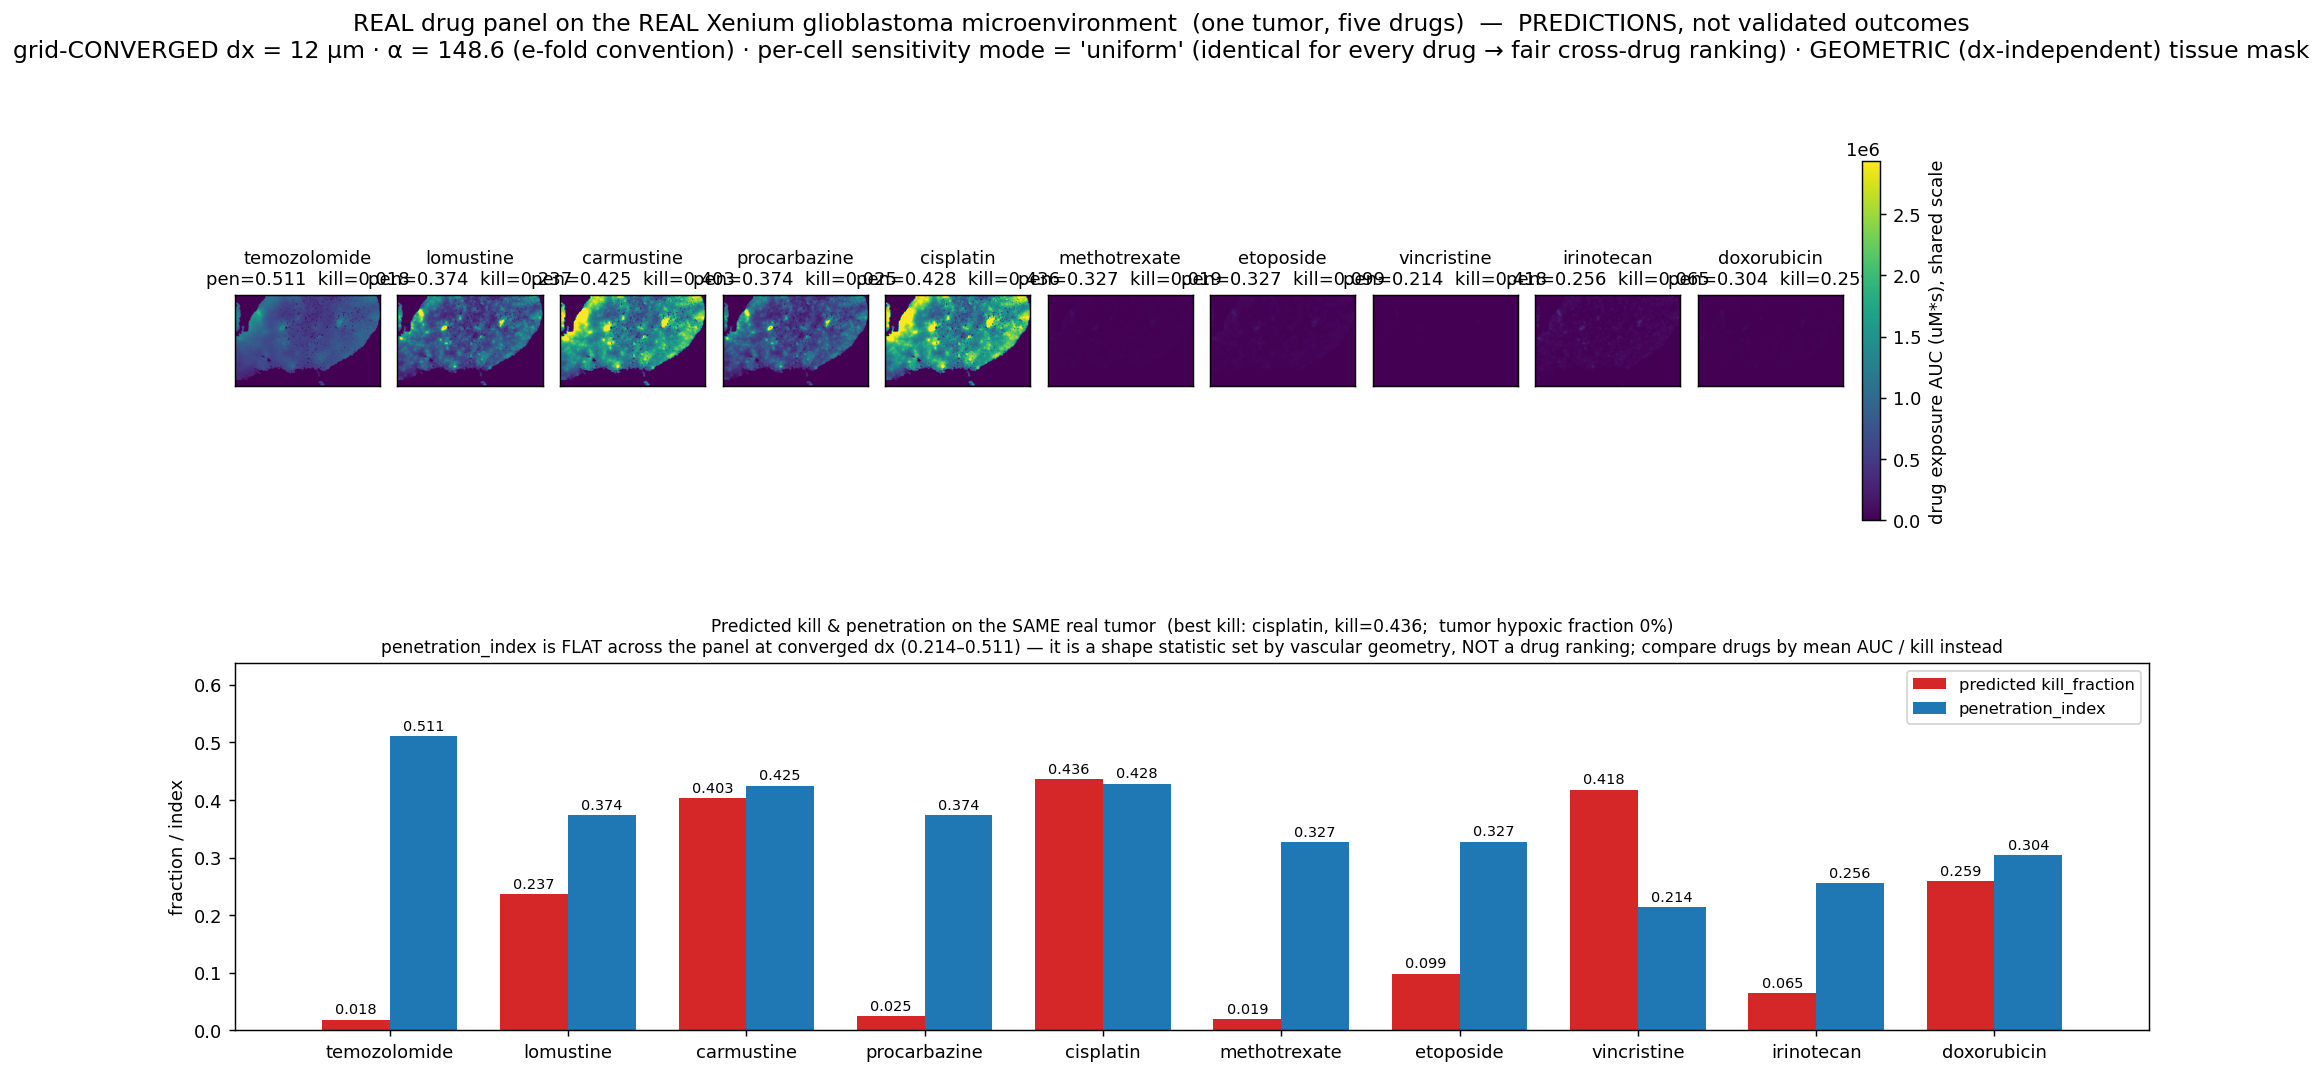
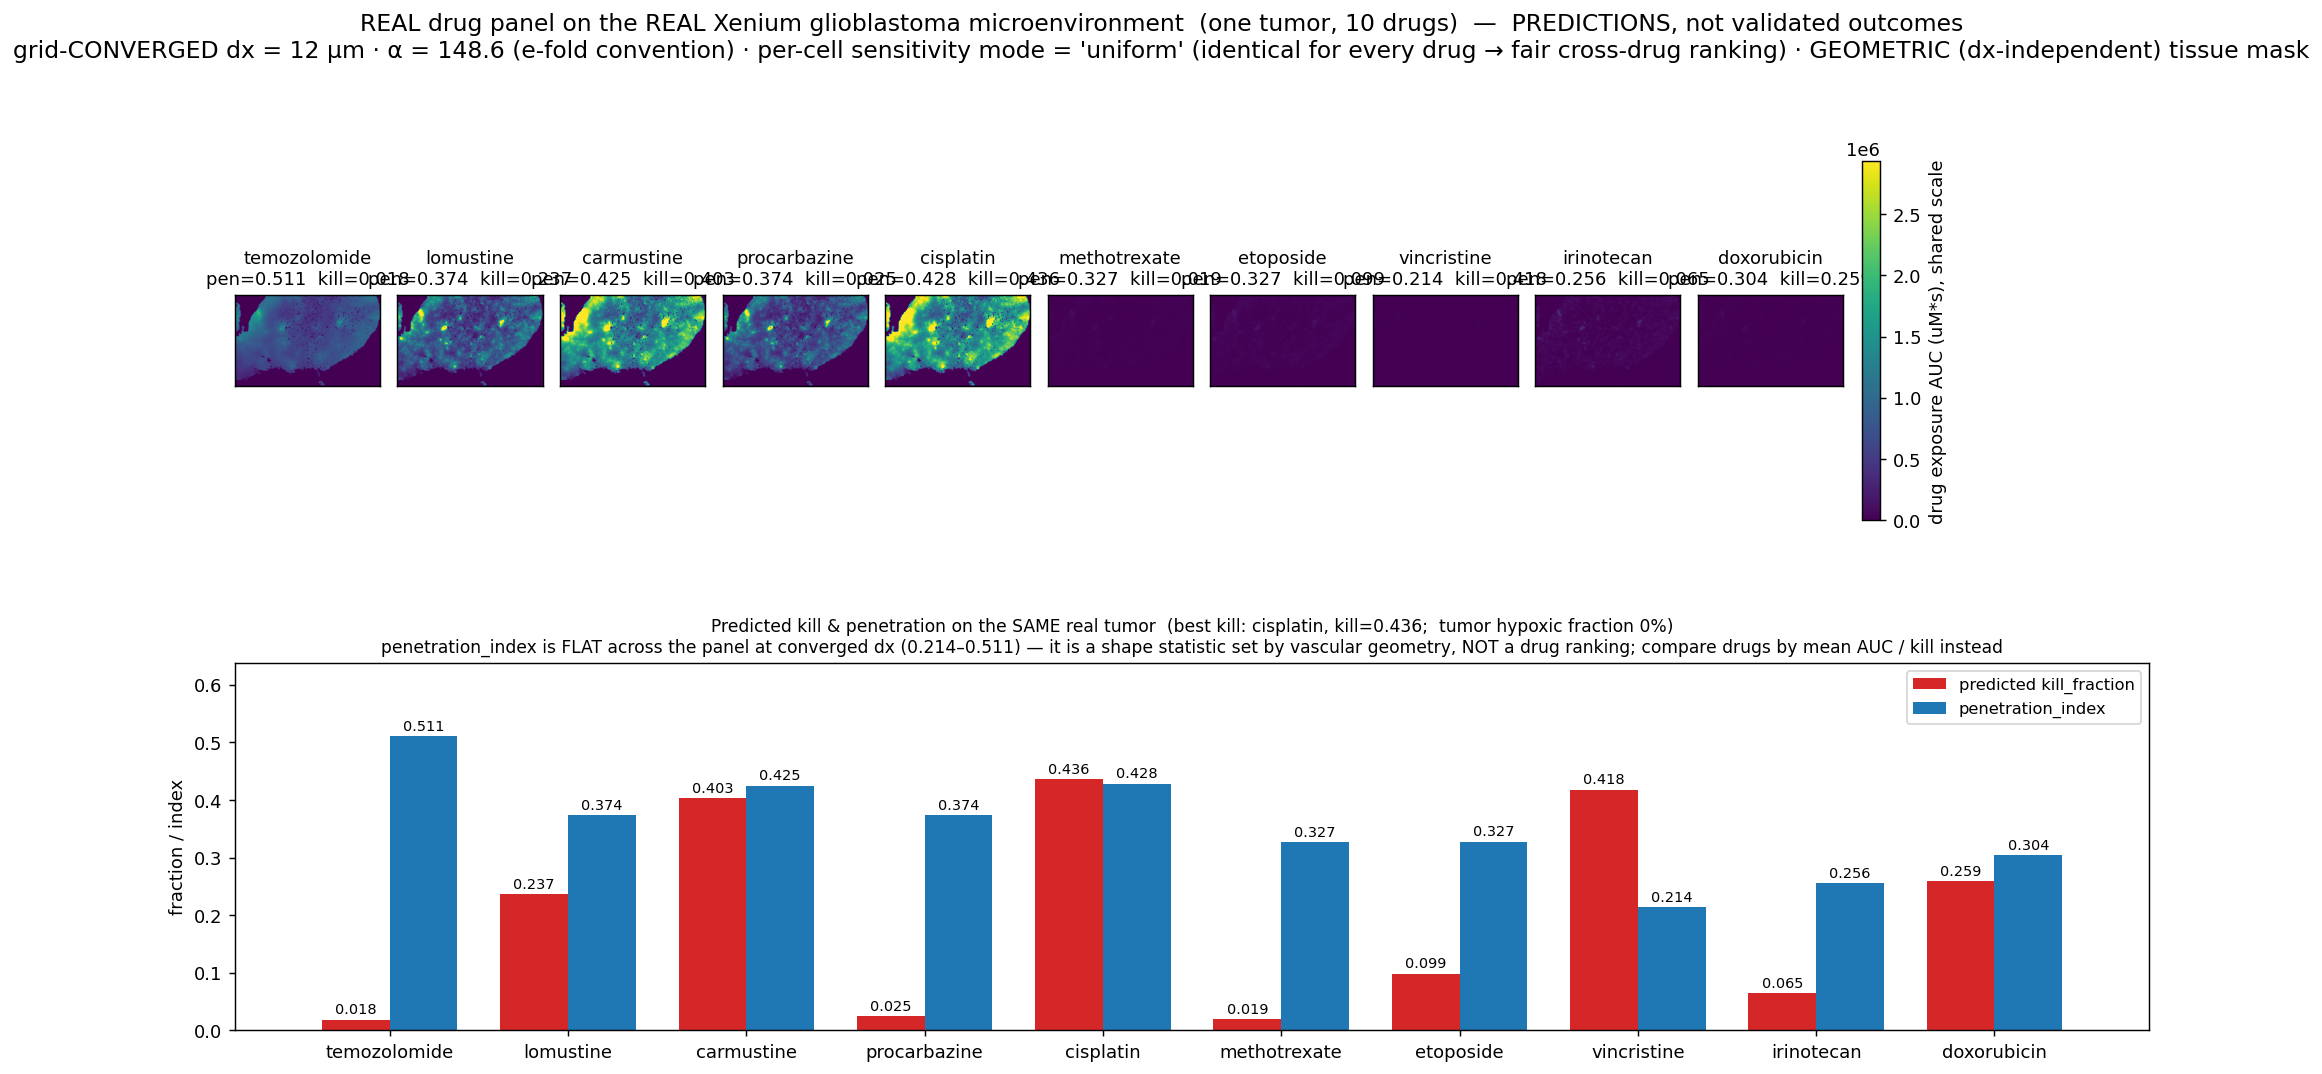
Make real_drug_panel.py's drug-count prose dynamic instead of hardcoded
Same "five drugs" staleness as the previous commit, but fixed at the source
this time: the hardcoded "five drugs" string is now f"{len(PANEL)} drugs", so
this can't go stale again the next time the panel grows. Also includes the
regenerated figure from the same run.

Changed region(s): [[0.155, 0.0, 0.8372, 0.0307]]

diff --git a/experiments/real_drug_panel.py b/experiments/real_drug_panel.py
@@ -566,11 +566,11 @@ def build_markdown(report, alpha, rows, best_kill, best_pen, hypoxic_frac,
         "",
         "## Honesty and caveats",
         "",
-        "- **No outcome label.** This open Xenium section is an **untreated "
-        "resection**. There is no paired measured drug response for any of these five "
-        "drugs. The kill/penetration numbers are **predictions of the validated "
-        "physics on real tissue — not validated outcomes.** Do not read the ranking as "
-        "clinical efficacy.",
+        f"- **No outcome label.** This open Xenium section is an **untreated "
+        f"resection**. There is no paired measured drug response for any of these "
+        f"{len(PANEL)} drugs. The kill/penetration numbers are **predictions of the "
+        "validated physics on real tissue — not validated outcomes.** Do not read the "
+        "ranking as clinical efficacy.",
         "- **What is genuinely real here:** the geometry (real cells, real "
         "vasculature, real matrix, real oxygen), the transport physics (structure → "
         "mesh diffusivity + a doxorubicin-calibrated perivascular sink, revalidated "
